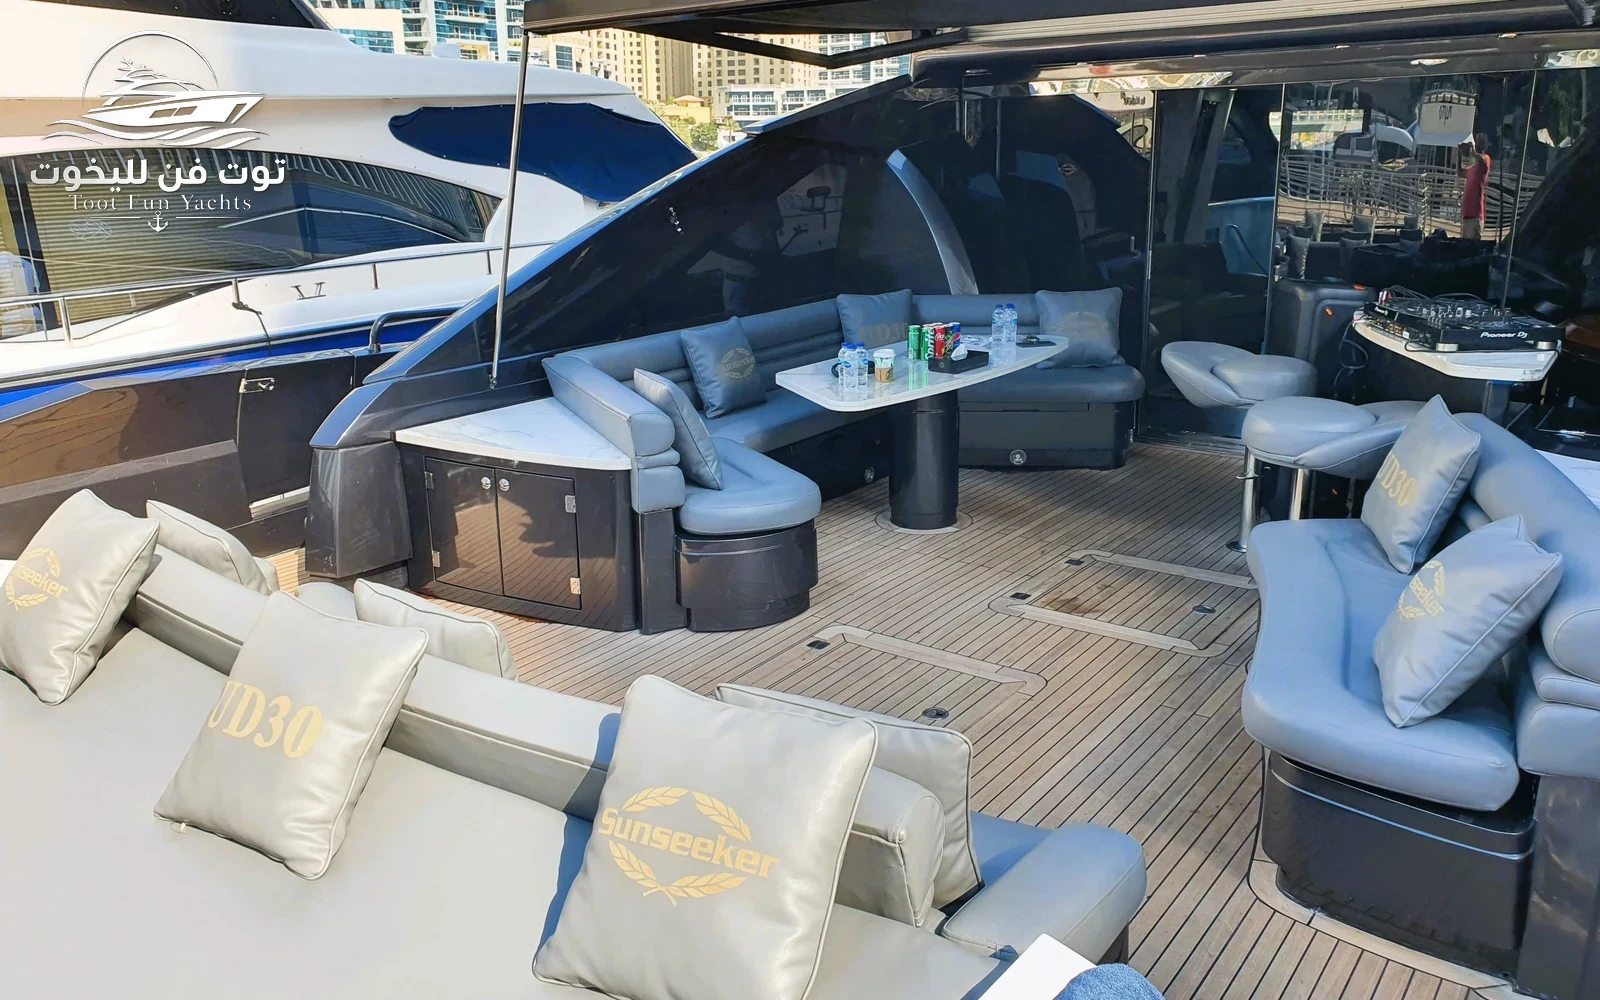
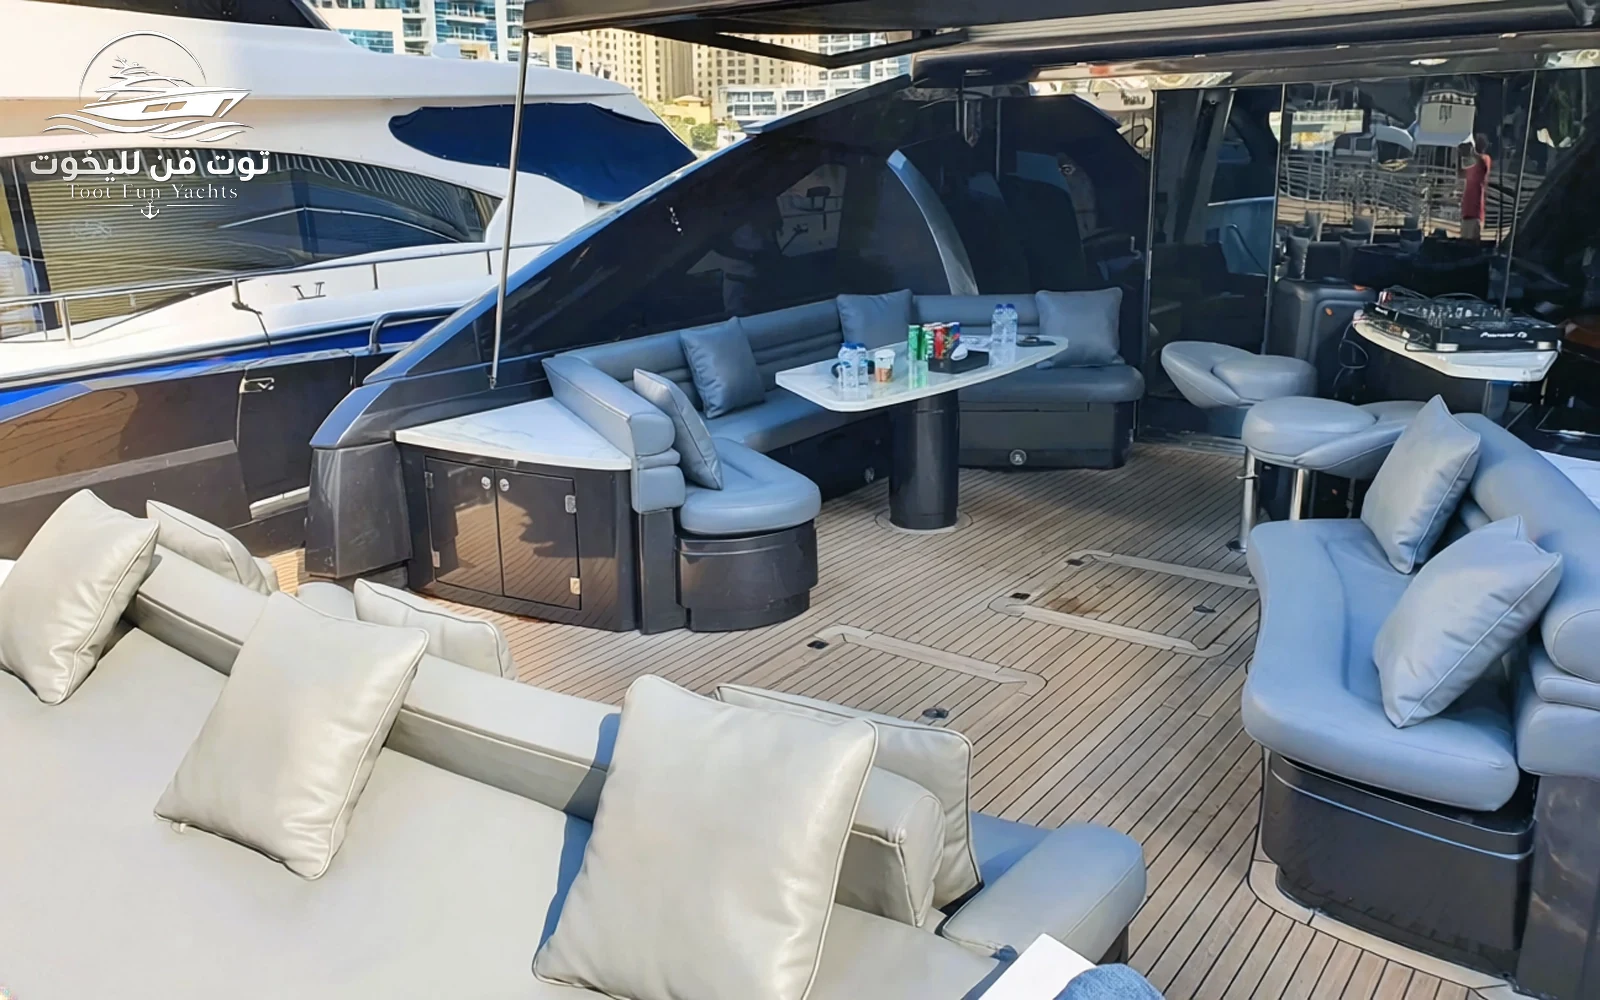
Contact email + Sunseeker product image round-2 fixes (EN mirror)
- Email: config.ts default info@dubai-yachts.ae ->
  Info@tootfunyachts.com. Live server overrides also updated via SSH.
- Sunseeker 95 gallery pos-3 + pos-5: client-fixed content reinstalled.

diff --git a/src/data/config.ts b/src/data/config.ts
@@ -146,7 +146,7 @@ export const DEFAULT_CONFIG: SiteConfig = {
   phone: "+971544420441",
   phoneDisplay: "+971 54 442 0441",
   whatsapp: "https://wa.me/971544420441",
-  email: "info@dubai-yachts.ae",
+  email: "Info@tootfunyachts.com",
   address: "Dubai Marina, United Arab Emirates",
   siteUrl: "https://dubai-yachts.ae",
   arabicSiteUrl: "https://dubai-yacht.ae",
